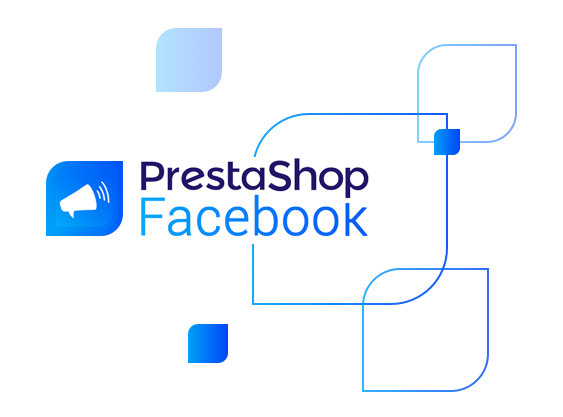
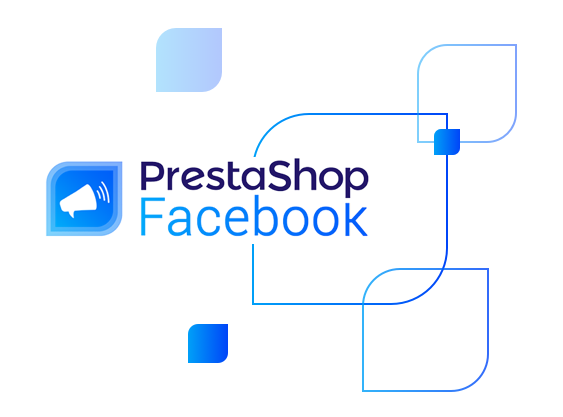
Update stepper image and position

diff --git a/_dev/src/components/configuration/stepper.vue b/_dev/src/components/configuration/stepper.vue
@@ -213,12 +213,6 @@ export default defineComponent({
     }
   }
 
-  .illustration > img {
-    position: relative;
-    left: calc(-1.25rem - 2px);
-    top: calc(-1.25rem - 2px);
-  }
-
   .opacity-50 {
     opacity: 0.5;
   }
